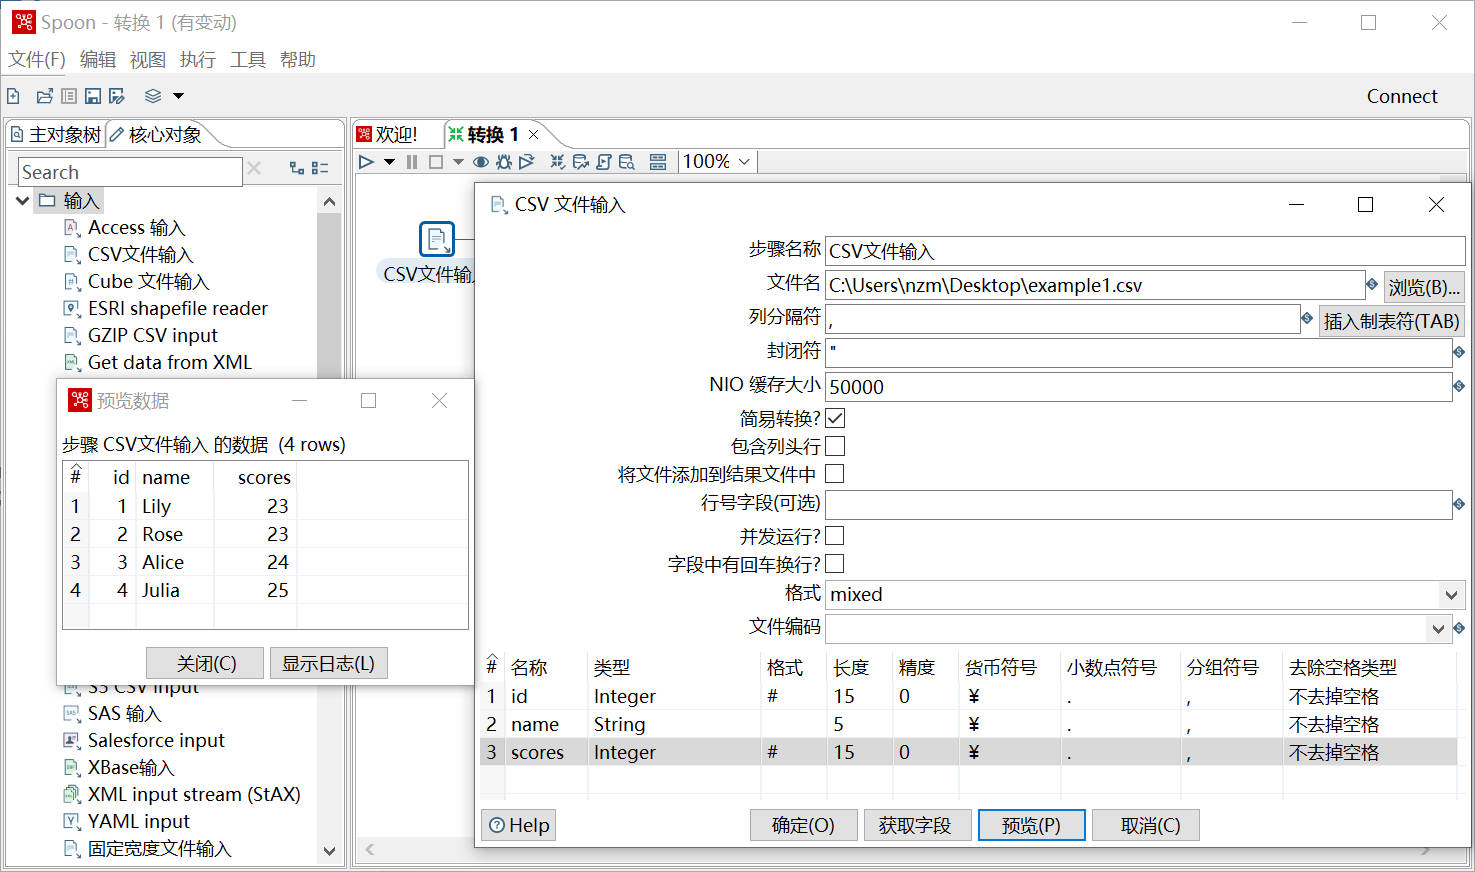
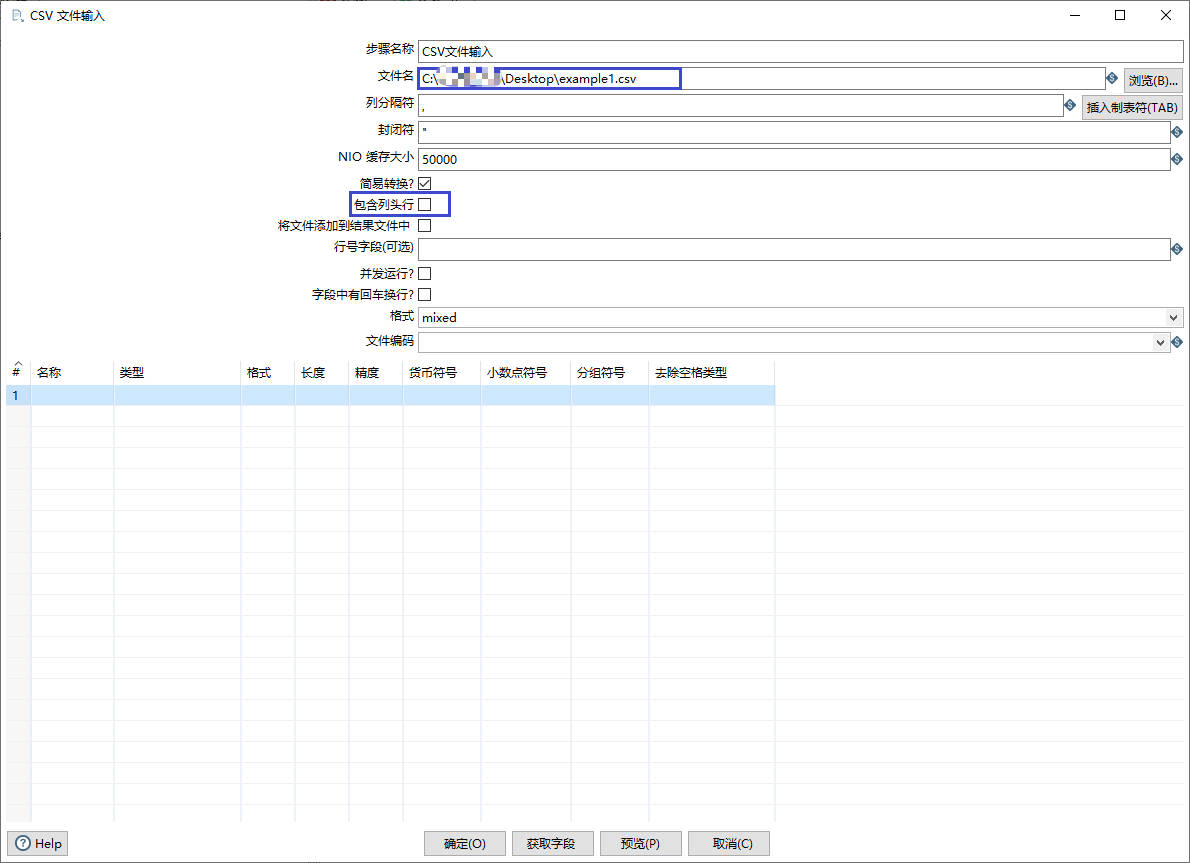
update the readme.

Changed region(s): [[0.0, 0.0, 1.0, 1.0], [0.1866, 0.6327, 0.2176, 0.6628]]

diff --git a/README.md b/README.md
@@ -152,9 +152,13 @@ StarRocks Kettle Connector实现了Kettle的一个插件，它用于在StarRocks
 
 ## 使用示例
 
-### 准备工作
+本节介绍如何使用StarRocks-Kettle Connector插件从本地文件系统导入CSV或JSON格式的数据。
 
-在本地文件系统中创建一个 CSV 格式的数据文件 `example1.csv`。文件一共包含三列，分别代表用户 ID、用户姓名和用户得分，如下所示：
+### 导入CSV格式的数据
+
+#### 准备工作
+
+1. 在本地文件系统中创建一个 CSV 格式的数据文件 `example1.csv`。文件一共包含三列，分别代表用户 ID、用户姓名和用户得分，如下所示：
 
 ```Plain
 1,Lily,23
@@ -163,11 +167,45 @@ StarRocks Kettle Connector实现了Kettle的一个插件，它用于在StarRocks
 4,Julia,25
 ```
 
-### 使用Kettle读取csv文件数据
+2. 在数据库 `kettle_test` 中创建一张名为 `student` 的主键模型表。表包含 `id`、`name` 和 `score` 三列，主键为 `id` 列，如下所示：
+
+~~~mysql
+CREATE TABLE `student`
+(
+    `id` int(11) NOT NULL COMMENT "用户 ID",
+    `name` varchar(65533) NULL COMMENT "用户姓名",
+    `score` int(11) NOT NULL COMMENT "用户得分"
+)
+ENGINE=OLAP
+PRIMARY KEY(`id`)
+DISTRIBUTED BY HASH(`id`);
+~~~
+
+
+
+#### 使用Kettle读取csv文件数据
+
+1. 填写文件信息，并将列分割符改成“,”与CSV文件中一样。当CSV文件中没有列头行时取消列头行的勾选。
 
 ![img](image/5.jpg)
 
-### 向StarRocks中导入数据
+2. 获取字段信息
+
+> 点击**获取字段**，得到CSV中的字段信息和类型。
+>
+> 若CSV文件中没有包含头行信息，则**名称**列将会显示**Field_xxx**，为了后续步骤区分字段名称可以自行命名。
+>
+> 字段类型Kettle会自动识别，如果需要更改可直接下拉菜单更改类型。
+
+![](image/10.jpg)
+
+3. 数据预览
+
+当配置完信息后，可点击最后的**预览**按钮预览需要导入的数据。
+
+![](image/11.jpg)
+
+#### 向StarRocks中导入数据
 
 1. 配置StarRocks数据导入参数。(最终开发会实现如上ui输入框的格式来进行参数的输入)
 
